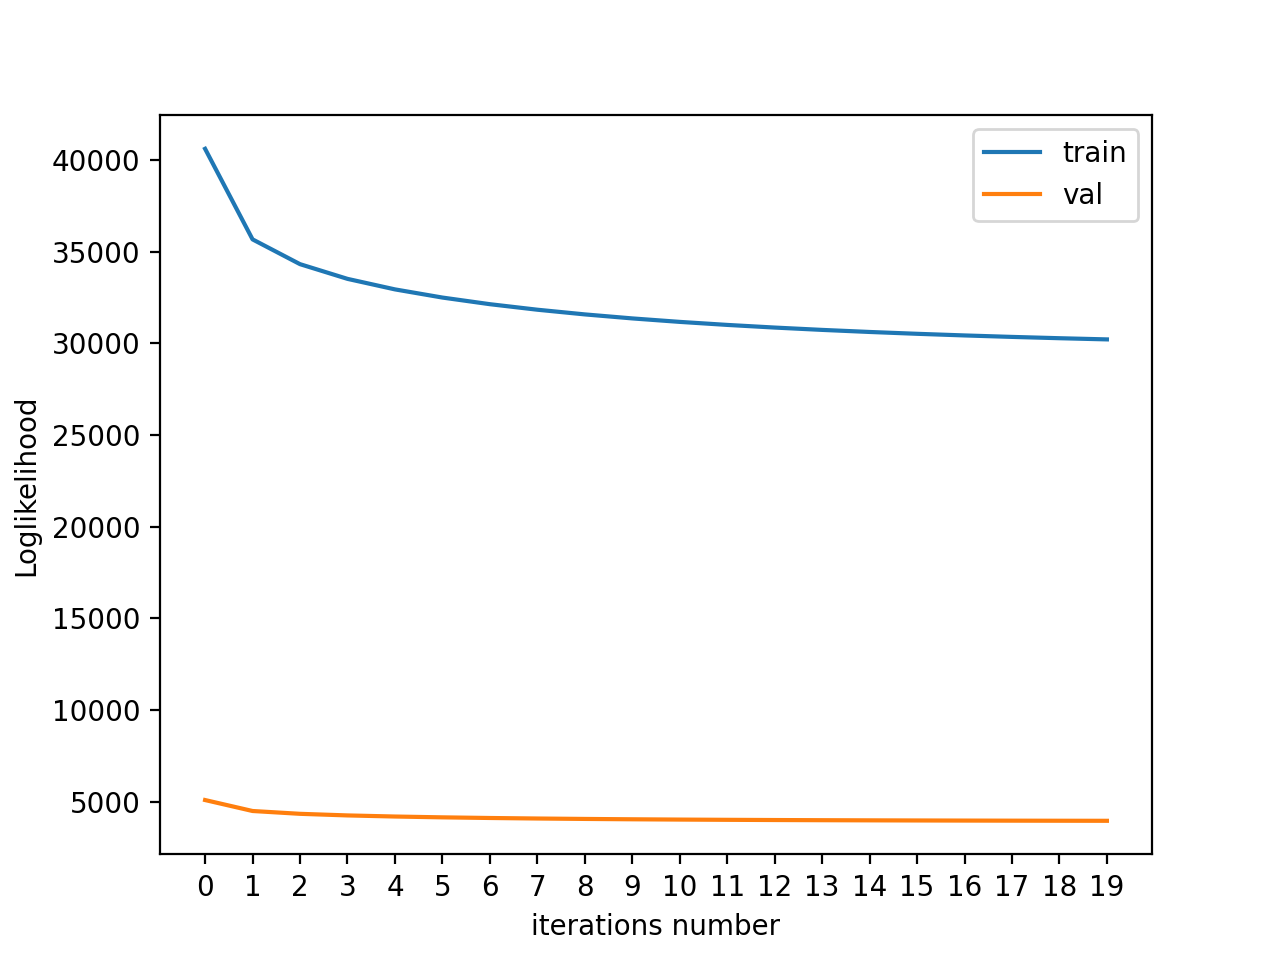
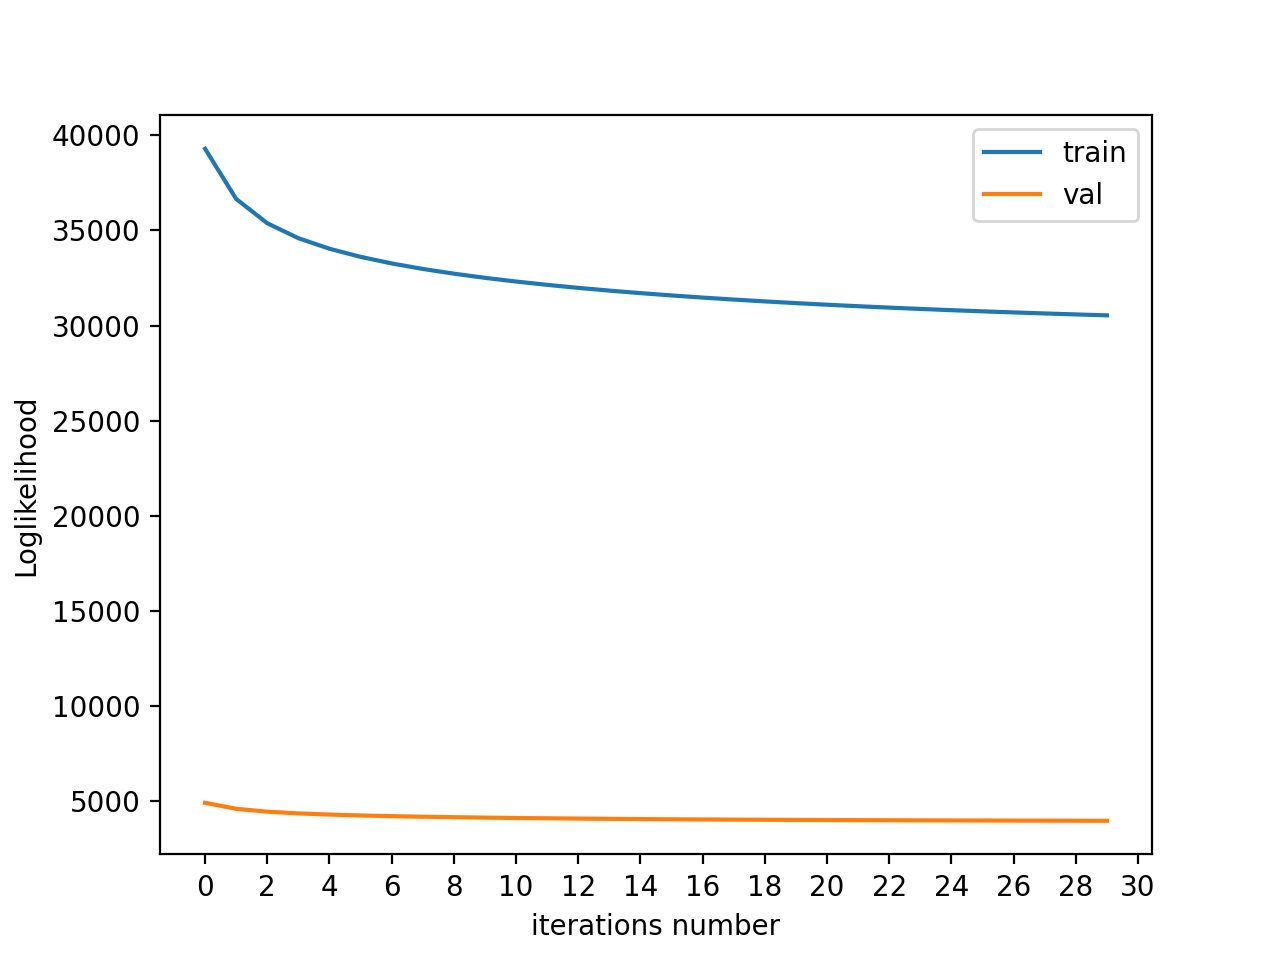
Small changes

diff --git a/part_a/item_response.py b/part_a/item_response.py
@@ -100,8 +100,8 @@ def irt(data, val_data, lr, iterations):
     :return: (theta, beta, val_acc_lst)
     """
     # TODO: Initialize theta and beta.
-    theta = np.random.rand(542)
-    beta = np.random.rand(1774)
+    theta = np.zeros(542)
+    beta = np.zeros(1774)
 
     val_acc_lst = []
     train_likelihood = []
@@ -158,21 +158,29 @@ def main():
 
     # learning_rate = [0.1, 0.05, 0.01, 0.005, 0.001]
     # iterations = [10, 20, 30, 50, 100]
+    # best_acc = 0
+    # best_iter = 10
+    # best_lr = 0.1
     # for lr in learning_rate:
     #     for iter in iterations:
     #         theta, beat, val_acc_lst, train_likelihood, val_likelihood = irt(train_data, val_data, lr, iter)
+    #         if val_acc_lst[-1] > best_acc:
+    #             best_acc = val_acc_lst[-1]
+    #             best_iter = iter
+    #             best_lr = lr
     #         print("Current lr: {}, iterations: {}, accuracy: {}".format(lr, iter, val_acc_lst[-1]))
-    # Best 0.01, 20
-    theta, beta, val_acc_lst, train_likelihood, val_likelihood = irt(train_data, val_data, 0.01, 20)
-    # plt.plot(train_likelihood, label='train')
-    # plt.plot(val_likelihood, label='val')
-    # plt.xlabel('iterations number')
-    # plt.ylabel('Loglikelihood')
-    # x_major_locator = MultipleLocator(1)
-    # ax = plt.gca()
-    # ax.xaxis.set_major_locator(x_major_locator)
-    # plt.legend()
-    # plt.show()
+    
+    # Best 0.005, 30
+    theta, beta, val_acc_lst, train_likelihood, val_likelihood = irt(train_data, val_data, 0.005, 30)
+    plt.plot(train_likelihood, label='train')
+    plt.plot(val_likelihood, label='val')
+    plt.xlabel('iterations number')
+    plt.ylabel('Loglikelihood')
+    x_major_locator = MultipleLocator(2)
+    ax = plt.gca()
+    ax.xaxis.set_major_locator(x_major_locator)
+    plt.legend()
+    plt.show()
     test_acc = evaluate(test_data, theta, beta)
     print("Test accuracy: ", test_acc)
     val_acc = evaluate(val_data, theta, beta)

diff --git a/part_a/knn.py b/part_a/knn.py
@@ -2,6 +2,7 @@ from sklearn.impute import KNNImputer
 from utils import *
 import os
 import numpy as np
+import matplotlib.pyplot as plt
 
 
 def knn_impute_by_user(matrix, valid_data, k):
@@ -43,6 +44,7 @@ def knn_impute_by_item(matrix, valid_data, k):
     neighbours = KNNImputer(n_neighbors=k)
     t_mat = np.transpose(neighbours.fit_transform(np.transpose(matrix)))
     acc = sparse_matrix_evaluate(valid_data, t_mat)
+    print("Validation Accuracy: {}".format(acc))
 
     #####################################################################
     #                       END OF YOUR CODE                            #
@@ -83,6 +85,11 @@ def main():
 
     print("When k is {}, test has the highest accuracy {}.".format(ku, acc_u[best_u]))
     print("When k is {}, test has the highest accuracy {}.".format(ki, acc_i[best_i]))
+    
+    # plt.plot(k_values, acc_i, color='blue')
+    # plt.xlabel("K Value")
+    # plt.ylabel("Accuracy")
+    # plt.show()
     #####################################################################
     #                       END OF YOUR CODE                            #
     #####################################################################
